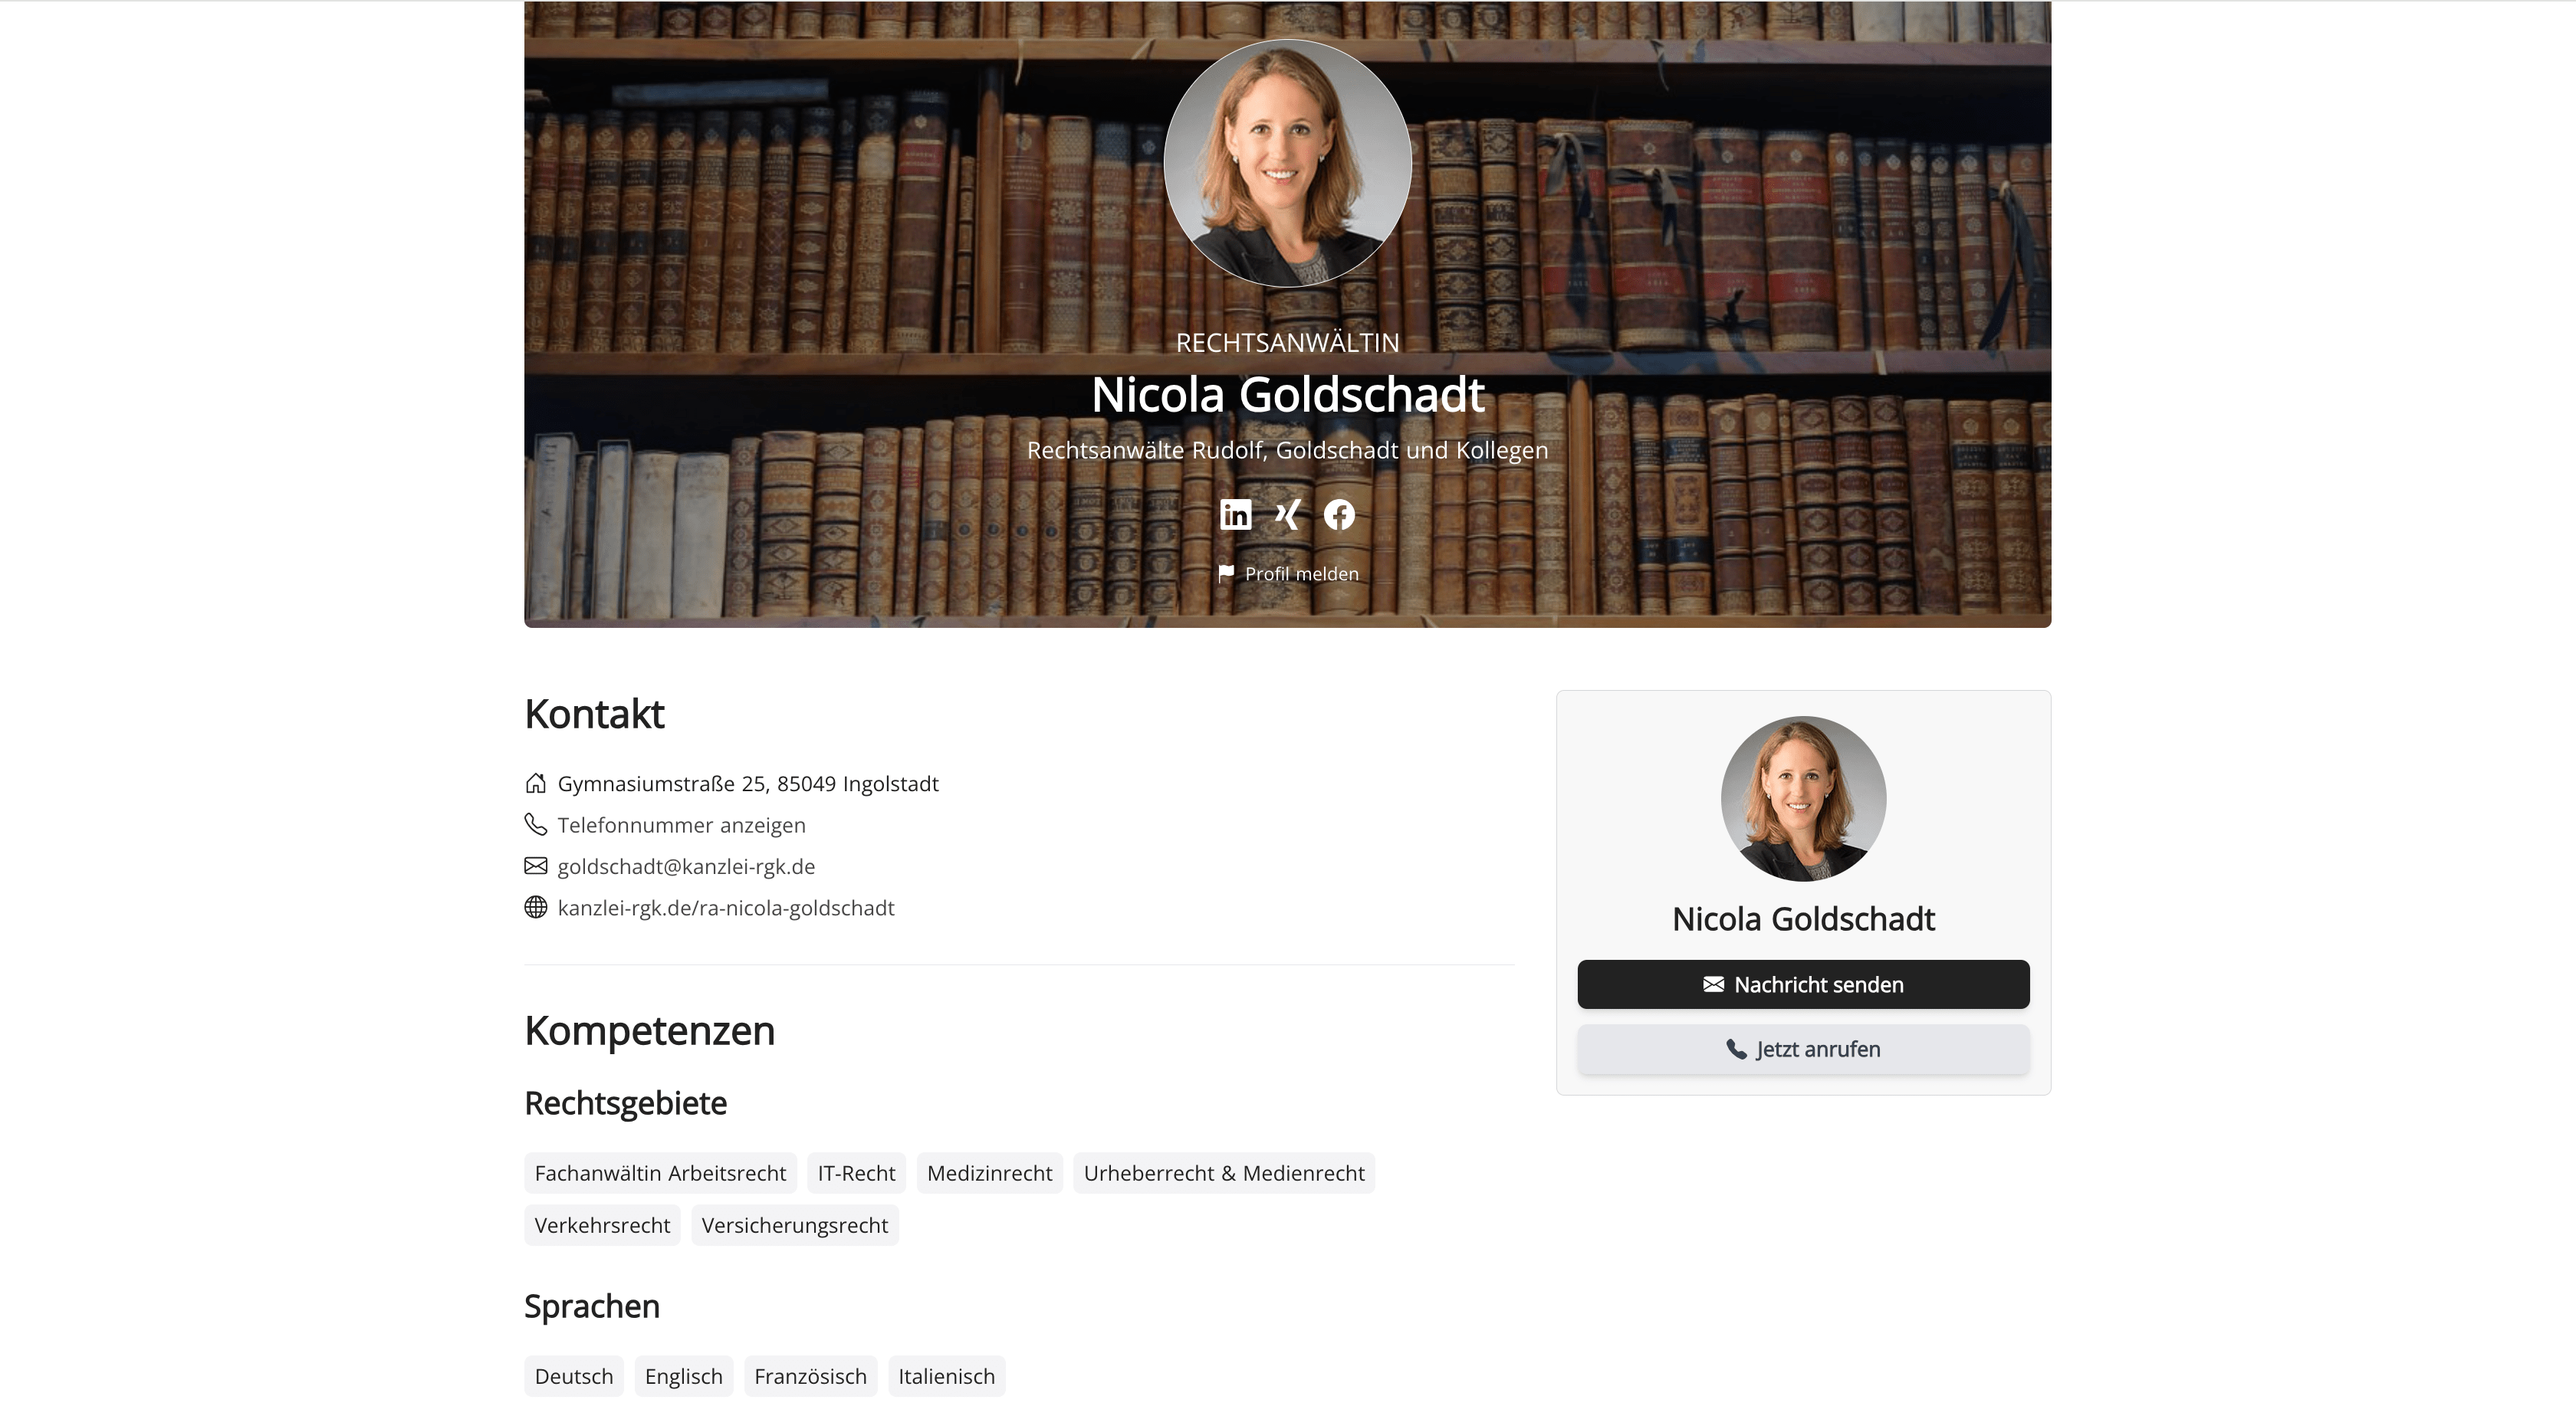
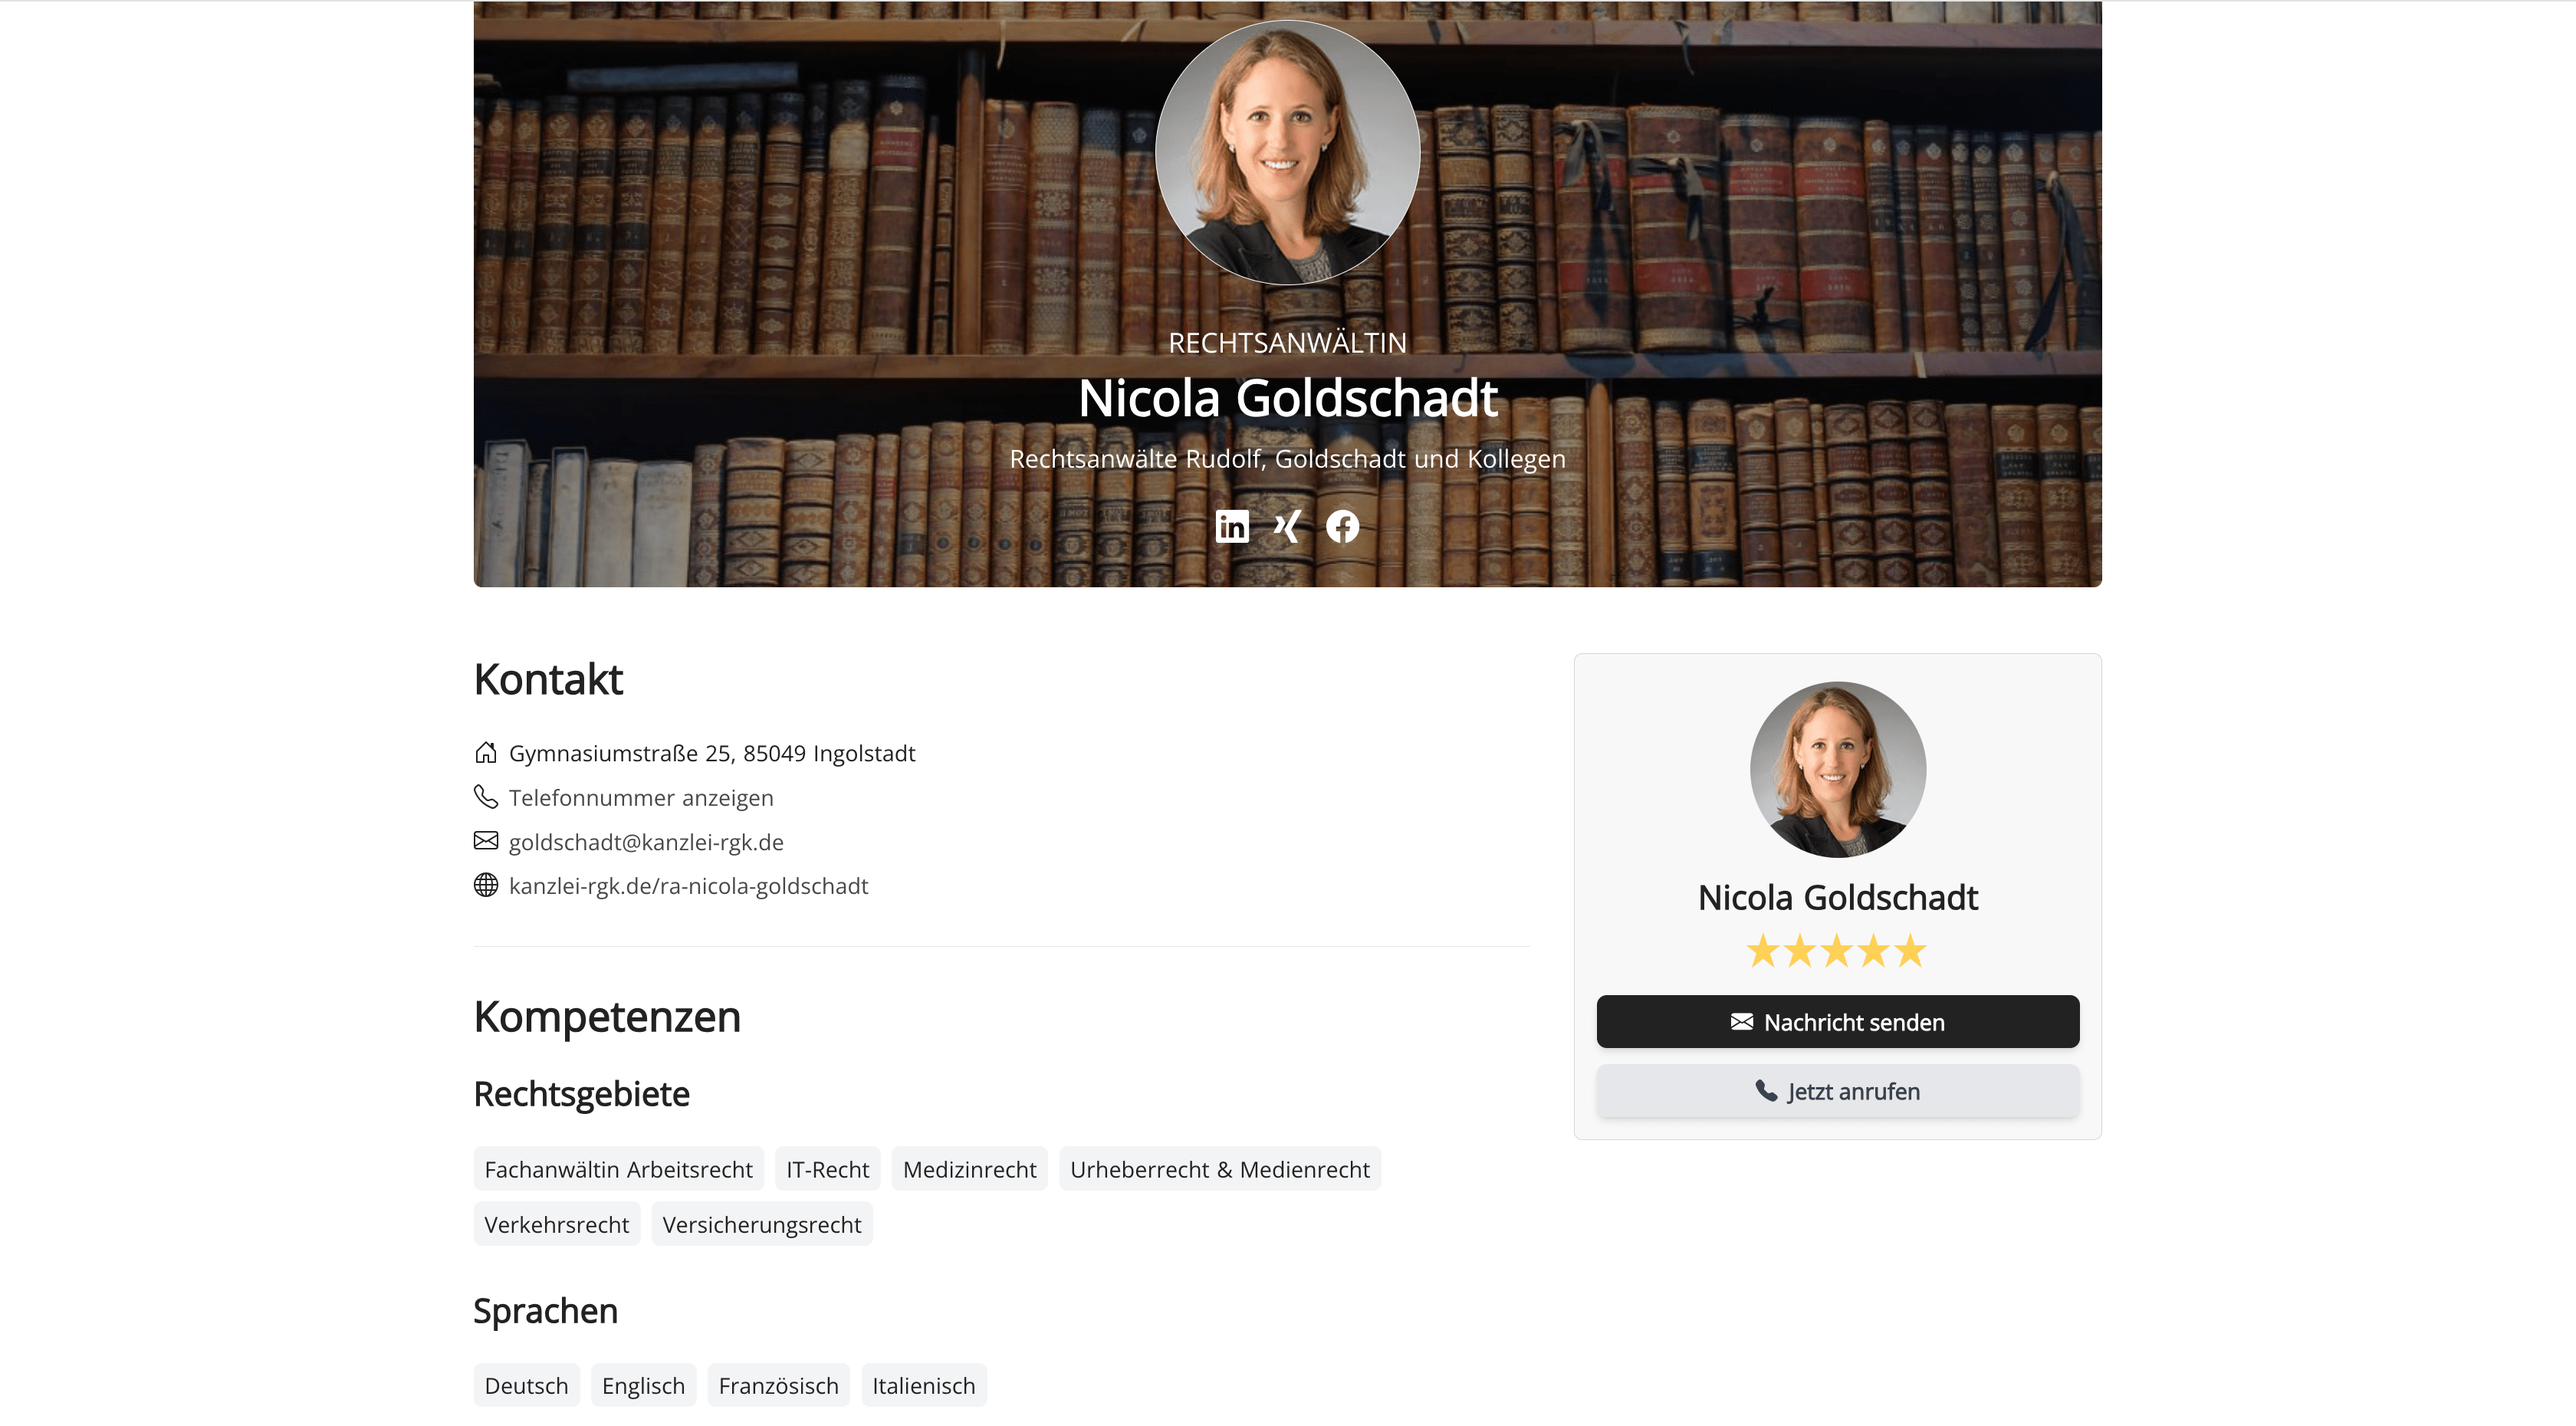
Update

diff --git a/pages/_slug/index.vue b/pages/_slug/index.vue
@@ -50,7 +50,7 @@
           </svg>
         </a>
       </div>
-      <nuxt-link v-if="profile.fake" :to="`/${profile.slug}/profil-melden`" class="report-profile-link flex items-center space-x-2 text-sm text-white z-10">
+      <nuxt-link v-if="!profile.fake" :to="`/${profile.slug}/profil-melden`" class="report-profile-link flex items-center space-x-2 text-sm text-white z-10">
         <svg xmlns="http://www.w3.org/2000/svg" width="16" height="16" fill="currentColor" class="bi bi-flag-fill" viewBox="0 0 16 16">
           <path d="M14.778.085A.5.5 0 0 1 15 .5V8a.5.5 0 0 1-.314.464L14.5 8l.186.464-.003.001-.006.003-.023.009a12 12 0 0 1-.397.15c-.264.095-.631.223-1.047.35-.816.252-1.879.523-2.71.523-.847 0-1.548-.28-2.158-.525l-.028-.01C7.68 8.71 7.14 8.5 6.5 8.5c-.7 0-1.638.23-2.437.477A20 20 0 0 0 3 9.342V15.5a.5.5 0 0 1-1 0V.5a.5.5 0 0 1 1 0v.282c.226-.079.496-.17.79-.26C4.606.272 5.67 0 6.5 0c.84 0 1.524.277 2.121.519l.043.018C9.286.788 9.828 1 10.5 1c.7 0 1.638-.23 2.437-.477a20 20 0 0 0 1.349-.476l.019-.007.004-.002h.001"/>
         </svg>
@@ -234,7 +234,10 @@
           <div class="flex justify-center w-full mb-3">
             <div class="profile-photo bg-cover h-32 w-32 rounded-full" :style="`background-image: url(${photoUrl});`"></div>
           </div>
-          <h2 class="text-center text-xl xl:text-2xl mb-4">{{ firstName }} {{ lastName }}</h2>
+          <h2 class="text-center text-xl xl:text-2xl mb-2">{{ firstName }} {{ lastName }}</h2>
+          <div class="flex justify-center mb-4">
+            <star-rating class="mb-1" :increment="0.1" :read-only="true" :show-rating="false" :star-size="30" v-model="averageRating" />
+          </div>
           <form class="flex flex-col space-y-3" @submit.prevent>
             <Btn @click="processMessage">
               <svg xmlns="http://www.w3.org/2000/svg" width="18" height="18" fill="currentColor" class="bi bi-envelope-fill" viewBox="0 0 16 16">
